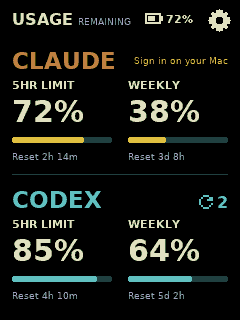
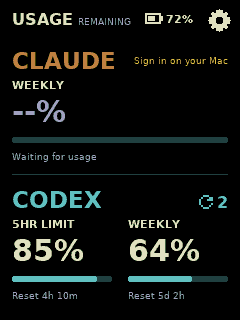
Fix invalid display test fixtures

diff --git a/tests/display/native.cpp b/tests/display/native.cpp
@@ -204,15 +204,17 @@ int main(int argc,char **argv) {
     meter::settings::Controller settings;settings.values.position=pos;settings.values.flags=flags;settings.menu=menu;
     for(int scenario=0;scenario<10;++scenario) {
       auto sample=state;
+      settings.save_failed=scenario==6;
       if(scenario==1)sample.model.providers[1].five_hour={};
       if(scenario==2)sample.model.providers[0]=meter::Provider{};
       if(scenario==3)sample.transport_failed=true;
       if(scenario==4)for(auto &p:sample.model.providers){p.five_hour.remaining=100;p.weekly.remaining=0;}
       if(scenario==5)for(auto &p:sample.model.providers){p.five_hour.remaining=0.3;p.weekly.remaining=99.9;}
-      if(scenario==6){settings.save_failed=true;std::strcpy(sample.model.providers[0].error,"auth_missing");sample.model.providers[0].observed=0;}
+      if(scenario==6){sample.model.providers[0]={};std::strcpy(sample.model.providers[0].error,"auth_missing");}
       if(scenario==7)for(auto &p:sample.model.providers)p.resets=0;
       if(scenario==8)for(auto &p:sample.model.providers)p.resets=2147483647;
       if(scenario==9)sample.model.providers[0].resets=1;
+      assert(meter::semantics(sample.model));
       auto frame=meter::ui::project(sample,scenario==3?604800000:0,settings);frame.battery=scenario==4?100:72;
       Canvas full(pos);meter::ui::draw(full,frame,pos);
       Canvas paged(pos);

diff --git a/docs/validation.md b/docs/validation.md
@@ -10,6 +10,7 @@ Validation target: one macOS host serving one 240×320 CYD, with independent Cla
 | Vulnerability scan | `govulncheck` v1.9.0 reported no vulnerabilities |
 | Desktop lifecycle and configuration | 17 synthetic tests passed |
 | Display and settings | 1280 combinations of rotation, toggles, menu state, quota and reset counts passed with ASan/UBSan; full-frame and paged rendering matched |
+| Renderer fixtures | Every scenario passes the firmware's model checks; the new assertion rejected the old auth-missing fixture before correction. Save-failure state is isolated to its scenario |
 | Touch geometry | Every control hit-area point and all native coordinates checked in all four orientations |
 | Persistence | Immediate sync, restart restore, corrupt saved values, failed saves and disabled child controls checked using a fake store |
 | Usage contract | Malformed input, old snapshots, independent provider errors, cache restart, reset-count validation and stale/zero counter hiding checked |
@@ -26,6 +27,8 @@ Run the commands in [CONTRIBUTING.md](../CONTRIBUTING.md) to reproduce the synth
 Native captures in [images](images/) use synthetic readings and were visually inspected at 240×320 and 320×240. The reset counter uses the original reload icon, aligned to the right of each provider title. Maximum counts fit without touching the title; zero, unavailable and stale counts stay hidden. Claude currently supplies no supported reset count.
 
 Portrait quota percentages now use a fixed 30px font. The former 34px font measured 106px for `100%`, exceeding a narrow bar's 100px width and triggering an inconsistent 23px fallback. The new font measures 93px for `100%` and 97px for `>99%`; all readings keep the same size in narrow and full-width cards. The native regression checks validate every integer percentage, boundary/unknown labels, rendered pixel bounds and identical font selection across card widths. The [full-percentage capture](images/full-percentage.png) shows `100%`, `62%` and `94%` together using synthetic data. All 1280 render-state checks and the configured firmware build passed after this fix.
+
+The [auth-missing capture](images/auth-missing.png) now uses an empty Claude reading with an authentication error, matching the data contract. It shows an unknown quota while Codex remains available. Font regeneration exactly reproduced the checked-in glyph header; only quota glyphs changed in the font fix.
 
 The configured firmware was flashed to a 4 MB ESP32-D0WD-V3 CYD. All four written regions passed hash verification. The updated host services were installed and started with login startup enabled. Live API responses reported both providers available. A 75-second serial capture recorded two successful device polls, fresh provider data, portrait mode, restored saved settings and no observed crash. The user confirmed the portrait layout and Settings screen before the reset-counter update.
 
